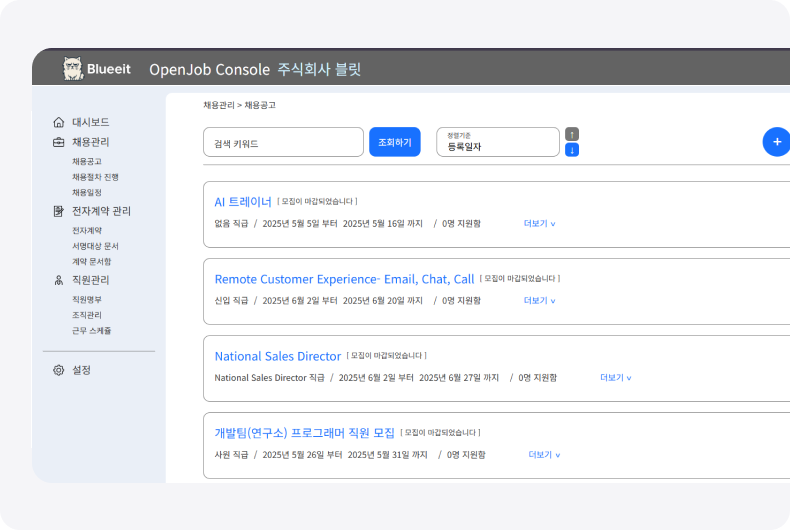
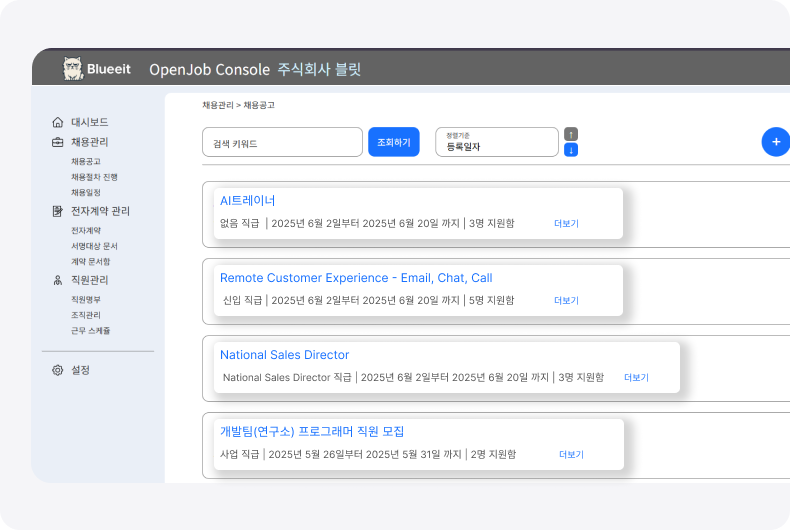
260511 nav, img 수정

diff --git a/styles/style.css b/styles/style.css
@@ -112,7 +112,7 @@ img {
 .section-img{
     max-width:100%;
     height:auto;
-    margin: 20px 0;
+    margin: 20px 0; 
 }
 
 .section-txt{
@@ -170,7 +170,7 @@ img {
 
 .hero .hero-content{
     text-align: center;
-    margin-top:200px;
+    padding:200px 32px 0;
 }
 
 .hero .hero-content p {
@@ -223,12 +223,6 @@ img {
 .nav-wrap nav ul li a {
     display: block;
     white-space: nowrap;
-}
-
-.nav-wrap  nav .nav-menu-signup {
-    border: 1px solid #ccc;
-    border-radius: 6px;
-    font-weight: 700;
 }
 
 .nav-wrap nav .main-nav .sub-nav {
@@ -310,6 +304,10 @@ text-align: center;
     padding: 5rem 1.5rem 3rem;
 }
 
+.openjob-service-wrap .features {
+    gap:100px;
+}
+
 .openjob-service-wrap img {
     background-color: #eaeff7;
     padding: 6px;
@@ -365,8 +363,9 @@ text-align: center;
     width:210px;
 }
 
-.openjob-service-wrap .features {
-    gap:100px;
+#section-recuitment .section-img {
+    border:1px solid #efefef;
+    border-radius:12px;
 }
 
 .openjob-feature-wrap .feature img{
@@ -424,12 +423,6 @@ footer {
         position:static;
         margin-top: 12px;
         border-radius: 10px;
-    }
-
-    .nav-menu-signup {
-        color:#7cc4ff;
-        border:1px solid #7cc4ff !important;
-        text-align:center;
     }
 
     .nav-wrap .mobile-menu-btn {

diff --git a/index.html b/index.html
@@ -120,11 +120,11 @@
                 <li class="main-nav">
                   <a href="https://web.blueeit.com/console">로그인</a>
                 </li>
+                <li class="main-nav nav-menu-signup">
+                  <a href="https://web.blueeit.com/join/signup">회원가입</a>
+                </li>
                 <li class="main-nav">
                   <a href="https://web.blueeit.com/support">지원문의</a>
-                </li>
-                <li class="main-nav nav-menu-signup">
-                  <a href="https://web.blueeit.com/join/signup">무료체험</a>
                 </li>
               </ul>
             </nav>
@@ -420,7 +420,7 @@
               <div>
                 <h2>
                   근무 현황부터 휴가 관리까지,<br />
-                  더 쉽고 효율적으로.
+                  더 쉽고 효율적으로
                 </h2>
               </div>
               <ul class="list">
